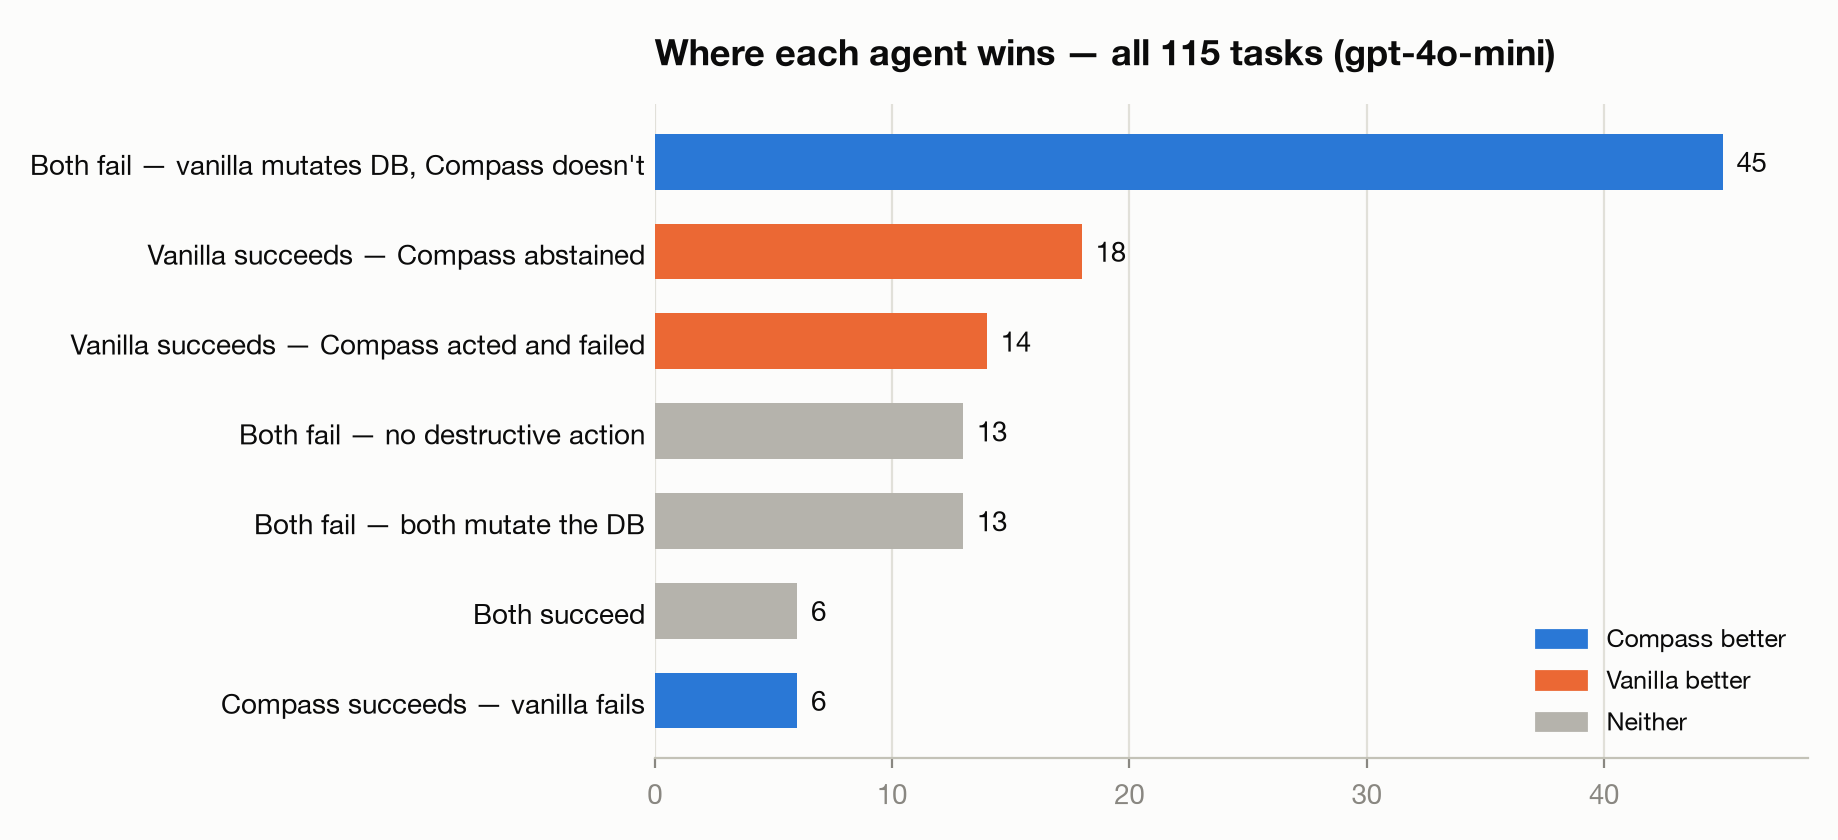
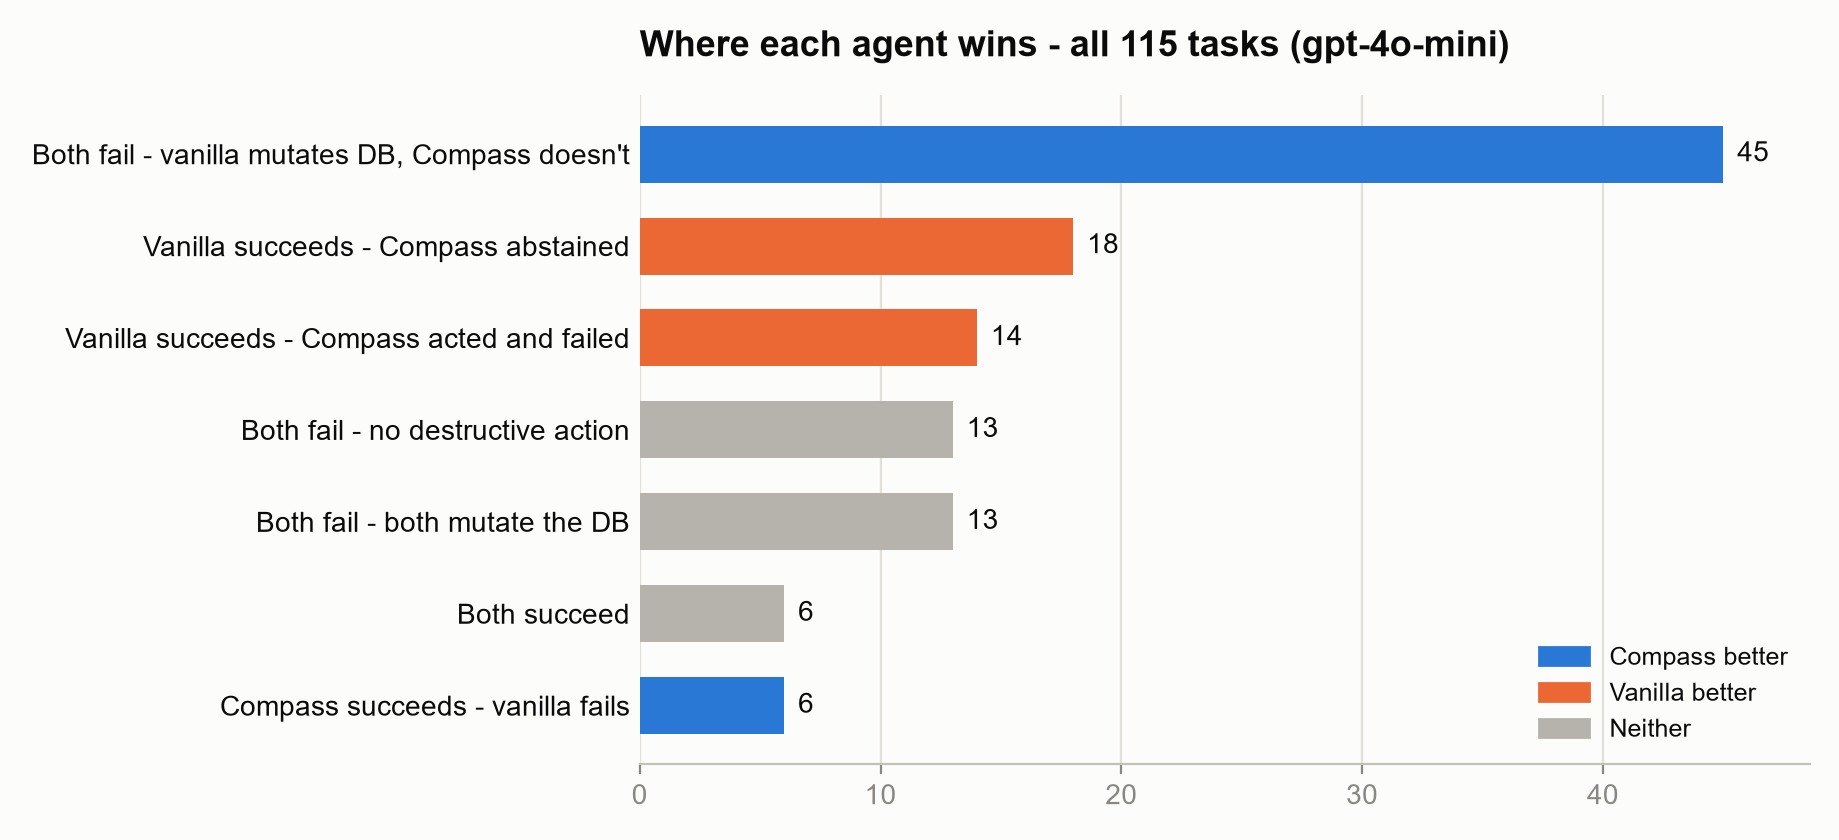
Regenerate figures: two-model headline with shrinkage overlay, hyphens

diff --git a/analysis/make_figures.py b/analysis/make_figures.py
@@ -5,6 +5,7 @@ Reads results/trials.db; renders one figure set spanning every model present
 
 Run: uv run python analysis/make_figures.py
 """
+import json
 import sqlite3
 from pathlib import Path
 
@@ -42,11 +43,22 @@ plt.rcParams.update({
 })
 
 
-def models_in_db() -> list[str]:
+def models_in_db(min_per_condition: int = 100) -> list[str]:
+    """Models with a full vanilla+compass tau_retail run (both conditions
+    >= min_per_condition trials). Filters out smoke tests and compass-only
+    variant rows so the charts never render partial data."""
     db = sqlite3.connect(ROOT / "results" / "trials.db")
-    return [r[0] for r in db.execute(
-        "SELECT DISTINCT model FROM trials WHERE task_id LIKE 'tau_retail%' ORDER BY model"
-    )]
+    counts: dict[str, dict[str, int]] = {}
+    for model, cond, n in db.execute(
+        "SELECT model, condition, COUNT(*) FROM trials "
+        "WHERE task_id LIKE 'tau_retail%' GROUP BY model, condition"
+    ):
+        counts.setdefault(model, {})[cond] = n
+    return sorted(
+        m for m, c in counts.items()
+        if c.get("vanilla", 0) >= min_per_condition
+        and c.get("compass", 0) >= min_per_condition
+    )
 
 
 def metrics_for(model: str) -> dict:
@@ -71,52 +83,91 @@ def _bar_label(ax, bars, color=INK):
                     va="center", ha="left", fontsize=10, color=color)
 
 
+def cond_metrics(model: str, cond: str) -> dict:
+    """success / abstention / wrong-mutation rates for one model+condition,
+    read straight from the tau_retail rows (works for compass-only variants)."""
+    db = sqlite3.connect(ROOT / "results" / "trials.db")
+    rows = db.execute(
+        "SELECT success, abstained, mutated_order_ids FROM trials "
+        "WHERE task_id LIKE 'tau_retail%' AND model = ? AND condition = ?",
+        (model, cond),
+    ).fetchall()
+    n = len(rows)
+    return {
+        "success": sum(bool(s) for s, _, _ in rows) / n,
+        "abstained": sum(bool(a) for _, a, _ in rows) / n,
+        "compound": sum(bool(json.loads(m)) and not s for s, _, m in rows) / n,
+    }
+
+
+# A calibration variant to overlay on its base model's panel (model -> variant).
+SHRINK_OF = {"qwen2.5:14b": "qwen2.5:14b-shrink"}
+
+# fixed series styling; the shrinkage bar only appears where SHRINK_OF has data
+SERIES = [
+    ("Vanilla ReAct", GRAY, lambda m: cond_metrics(m, "vanilla")),
+    ("Compass", BLUE, lambda m: cond_metrics(m, "compass")),
+    ("Compass + shrinkage", AQUA,
+     lambda m: cond_metrics(SHRINK_OF[m], "compass") if m in SHRINK_OF else None),
+]
+
+
 def fig_headline(models: list[str]) -> None:
-    """Grouped horizontal bars: vanilla (gray baseline) vs compass (accent)."""
+    """Grouped horizontal bars per model. Vanilla vs Compass everywhere; the
+    base-rate-prior (shrinkage) variant is overlaid only where it was run."""
     metric_labels = [("success", "Task success"),
                      ("compound", "Compound failure\n(destructive action while wrong)"),
                      ("abstained", "Abstention")]
+    panels = {m: [(lbl, col, fn(m)) for lbl, col, fn in SERIES if fn(m) is not None]
+              for m in models}
     fig, axes = plt.subplots(
-        1, len(models), figsize=(5.4 * len(models) + 1, 3.4), squeeze=False)
+        1, len(models), figsize=(6.4 * len(models), 5.4), squeeze=False)
     for ax, model in zip(axes[0], models):
-        m = metrics_for(model)
-        ys = range(len(metric_labels))
-        h = 0.32
-        van = ax.barh([y + h / 2 + 0.02 for y in ys],
-                      [m["vanilla"][k] for k, _ in metric_labels],
-                      height=h, color=GRAY, label="Vanilla ReAct")
-        com = ax.barh([y - h / 2 - 0.02 for y in ys],
-                      [m["compass"][k] for k, _ in metric_labels],
-                      height=h, color=BLUE, label="Compass")
-        _bar_label(ax, van, INK_2)
-        _bar_label(ax, com, INK)
-        ax.set_yticks(list(ys), [lbl for _, lbl in metric_labels], fontsize=10, color=INK)
-        ax.set_xlim(0, 1.02)
+        series = panels[model]
+        nser = len(series)
+        ys = list(range(len(metric_labels)))
+        group_h = 0.8
+        h = group_h / nser
+        for si, (_lbl, color, mets) in enumerate(series):
+            offset = (si - (nser - 1) / 2) * h
+            bars = ax.barh([y + offset for y in ys],
+                           [mets[k] for k, _ in metric_labels],
+                           height=h * 0.86, color=color)
+            _bar_label(ax, bars, INK)
+        ax.set_yticks(ys, [lbl for _, lbl in metric_labels], fontsize=10, color=INK)
+        ax.set_xlim(0, 1.06)
         ax.invert_yaxis()
-        ax.set_title(model, fontsize=11, color=INK_2, loc="left")
+        ax.set_title(model, fontsize=12, color=INK_2, loc="left")
         ax.xaxis.set_major_formatter(lambda v, _: f"{v:.0%}")
         ax.grid(axis="x", color=GRID, linewidth=0.8)
         ax.set_axisbelow(True)
         for spine in ("top", "right", "left"):
             ax.spines[spine].set_visible(False)
-    axes[0][0].legend(loc="lower right", frameon=False, fontsize=9)
-    fig.suptitle("Compass trades task success for far fewer destructive failures",
-                 fontsize=13, fontweight="bold", x=0.01, y=0.985, ha="left", va="top")
-    fig.text(0.01, 0.885, "115 τ-bench retail tasks (single-shot) × 2 conditions per model",
-             fontsize=9, color=INK_2, va="top")
-    fig.tight_layout(rect=(0, 0, 1, 0.82))
+    handles = [plt.Rectangle((0, 0), 1, 1, color=col) for _, col, _ in SERIES]
+    fig.legend(handles, [lbl for lbl, _, _ in SERIES], loc="lower center",
+               ncol=3, frameon=False, fontsize=10, bbox_to_anchor=(0.5, 0.035))
+    fig.suptitle("Compass trades some task success for far fewer destructive failures",
+                 fontsize=14, fontweight="bold", x=0.01, y=0.98, ha="left", va="top")
+    fig.text(0.01, 0.9, "115 τ-bench retail tasks (single-shot), per model",
+             fontsize=10, color=INK_2, va="top")
+    fig.text(0.5, 0.125,
+             "On Qwen2.5 14B the model's confidence is flat and uninformative, so baseline "
+             "Compass can't gate the first risky action. The base-rate-prior (shrinkage) "
+             "variant drives destructive failures to zero.",
+             fontsize=8.5, color=MUTED, ha="center", va="center", wrap=True)
+    fig.tight_layout(rect=(0, 0.17, 1, 0.85))
     fig.savefig(FIG_DIR / "headline_metrics.png", dpi=200)
     plt.close(fig)
 
 
 CAT_STYLE = {
     # category → (display label, story role)
-    "both_fail_v_mutates":    ("Both fail — vanilla mutates DB, Compass doesn't", "compass"),
-    "vanilla_only_abstained": ("Vanilla succeeds — Compass abstained", "vanilla"),
-    "vanilla_only_committed": ("Vanilla succeeds — Compass acted and failed", "vanilla"),
-    "both_fail_both_mutate":  ("Both fail — both mutate the DB", "neutral"),
-    "both_fail_clean":        ("Both fail — no destructive action", "neutral"),
-    "compass_only":           ("Compass succeeds — vanilla fails", "compass"),
+    "both_fail_v_mutates":    ("Both fail - vanilla mutates DB, Compass doesn't", "compass"),
+    "vanilla_only_abstained": ("Vanilla succeeds - Compass abstained", "vanilla"),
+    "vanilla_only_committed": ("Vanilla succeeds - Compass acted and failed", "vanilla"),
+    "both_fail_both_mutate":  ("Both fail - both mutate the DB", "neutral"),
+    "both_fail_clean":        ("Both fail - no destructive action", "neutral"),
+    "compass_only":           ("Compass succeeds - vanilla fails", "compass"),
     "both_succeed":           ("Both succeed", "neutral"),
 }
 ROLE_COLOR = {"compass": BLUE, "vanilla": ORANGE, "neutral": GRAY}
@@ -147,7 +198,7 @@ def fig_categories(model: str) -> None:
                for r in ("compass", "vanilla", "neutral")]
     ax.legend(handles, ["Compass better", "Vanilla better", "Neither"],
               loc="lower right", frameon=False, fontsize=9)
-    ax.set_title(f"Where each agent wins — all 115 tasks ({model})",
+    ax.set_title(f"Where each agent wins - all 115 tasks ({model})",
                  fontsize=13, fontweight="bold", loc="left", pad=14)
     fig.tight_layout()
     fig.savefig(FIG_DIR / "outcome_categories.png", dpi=200)
@@ -172,7 +223,7 @@ def fig_threshold(model: str) -> None:
     ax.axvline(0.8, color=BASELINE, linewidth=1, linestyle=(0, (4, 3)))
     ax.annotate("shipped\nT_HIGH", (0.8, 0.97), fontsize=9, color=MUTED,
                 ha="center", va="top")
-    ax.set_xlabel("T_HIGH — confidence threshold for high-risk actions")
+    ax.set_xlabel("T_HIGH - confidence threshold for high-risk actions")
     ax.set_ylim(0, 1.02)
     ax.set_xlim(min(ts) - 0.01, max(ts) + 0.14)
     ax.set_xticks([t for t in ts if t not in (0.75, 0.85)])